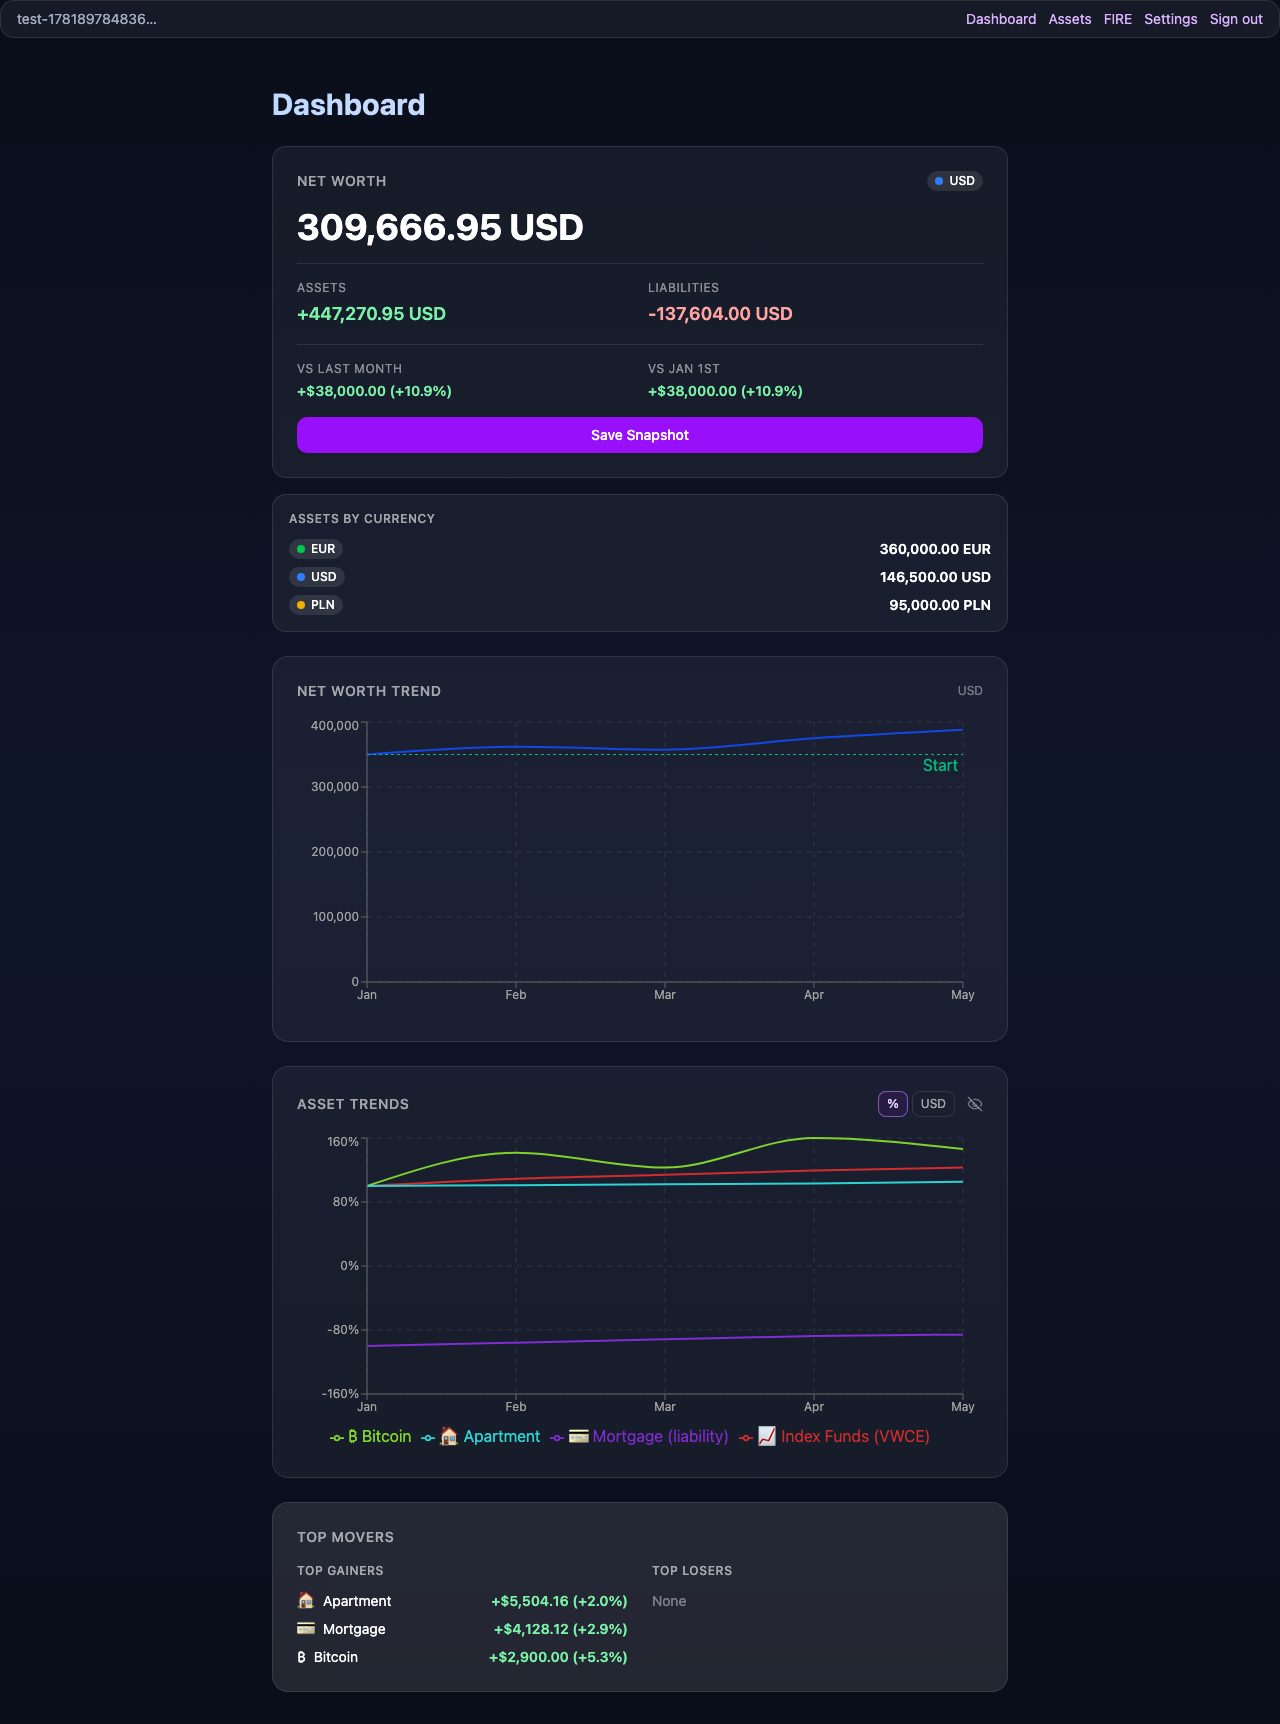
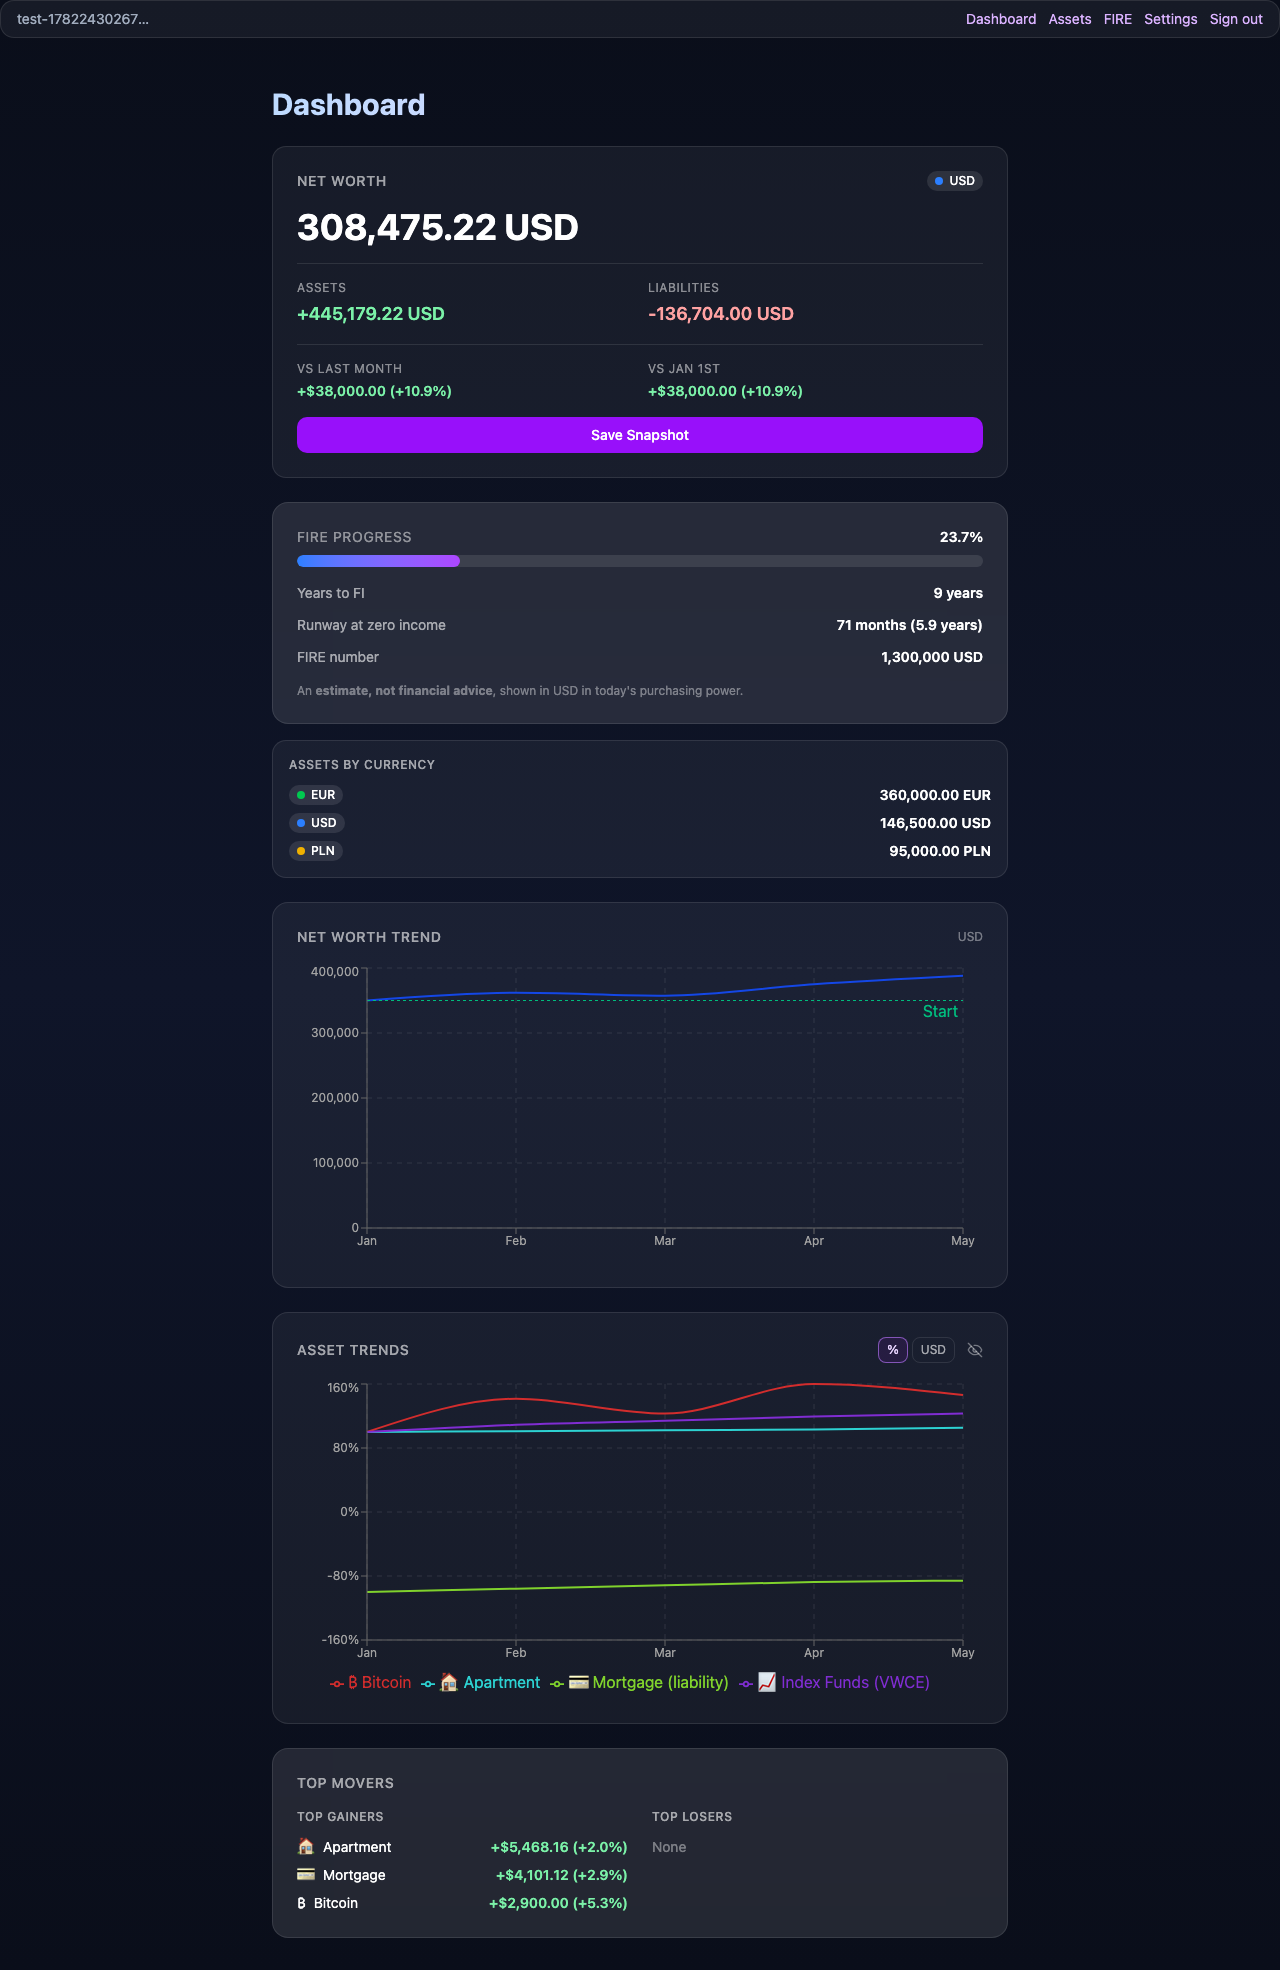
docs(readme): cover FIRE dashboard card + add settings screenshot
- README: new "FIRE progress card" feature bullet, updated Settings +
  Plan-ahead copy, dashboard caption, and a settings screenshot
- capture spec: add dark-theme settings.png capture
- regenerate dark-theme screenshots (dashboard now shows the FIRE card)

diff --git a/e2e/capture-screenshots.spec.ts b/e2e/capture-screenshots.spec.ts
@@ -283,6 +283,11 @@ test("capture README screenshots", async ({ page, browser }) => {
   await settleChart(page, /projected portfolio/i);
   await page.screenshot({ path: join(SHOTS_DIR, "fire.png"), fullPage: true });
 
+  await page.goto("/dashboard/settings");
+  await page.getByRole("heading", { name: /settings/i }).waitFor({ state: "visible" });
+  await page.waitForLoadState("networkidle");
+  await page.screenshot({ path: join(SHOTS_DIR, "settings.png"), fullPage: true });
+
   // 4. A few light-theme shots (dashboard + FIRE) to showcase the light theme.
   await page.emulateMedia({ colorScheme: "light" });
 

diff --git a/README.md b/README.md
@@ -14,7 +14,7 @@ BitWorth is a privacy-first personal net worth tracker. You manually enter your 
   <img alt="PWA" src="https://img.shields.io/badge/PWA-installable-5A0FC8?logo=pwa&logoColor=white" />
 </p>
 
-![BitWorth dashboard — net worth, deltas, and trend chart](docs/screenshots/dashboard.png)
+![BitWorth dashboard — net worth, deltas, FIRE progress, and trend chart](docs/screenshots/dashboard.png)
 
 ---
 
@@ -26,7 +26,7 @@ Tracking net worth in a spreadsheet works until it doesn't: formulas drift, curr
 - **Multi-currency, automatically** — hold assets in PLN, USD, and EUR; BitWorth converts everything to your display currency using live rates (cached, with graceful fallback).
 - **One number, with context** — a single net worth figure plus month-over-month and year-to-date deltas.
 - **History you can see** — one-click snapshots feed an overall trend chart, top movers, and per-asset trend lines.
-- **Plan ahead** — a built-in FIRE calculator projects when you can retire.
+- **Plan ahead** — a built-in FIRE calculator projects when you can retire, and an optional dashboard card keeps your progress toward financial independence front and center.
 
 ![Landing page](docs/screenshots/landing.png)
 
@@ -40,7 +40,8 @@ Tracking net worth in a spreadsheet works until it doesn't: formulas drift, curr
 - **Asset trends** — opt any asset into a dedicated trend chart and watch each one move across your snapshot history. Toggle between indexed (%) and absolute scales; lines are color-distinct, gaps stay honest (no bridging), and liabilities read in their natural direction (debt paydown trends up).
 - **Live crypto prices** — adding or editing a crypto holding fetches the current market price from CoinGecko (cached, with manual-entry fallback). Top coins are mapped out of the box (BTC, ETH, SOL, and more).
 - **FIRE calculator** — enter your income, expenses, return, inflation, and safe withdrawal rate to compute your FIRE number, years to FI, estimated retirement age, plus Coast and Barista FIRE — with a year-by-year projection chart in today's money.
-- **Settings** — choose your display currency (PLN/USD/EUR) and theme (light/dark/system), persisted per user.
+- **FIRE progress card** — a settings-gated card on the dashboard (on by default) that turns your saved FIRE inputs into an at-a-glance view: a progress bar for percent of your FIRE number reached, months of runway at zero income, years to FI, and the FIRE number — all in your display currency. Before you've entered any FIRE data it shows a placeholder linking to the calculator.
+- **Settings** — choose your display currency (PLN/USD/EUR), theme (light/dark/system), and whether the FIRE progress card appears on your dashboard; everything is persisted per user.
 - **Auth** — email/password authentication via Supabase SSR, with protected dashboard routes.
 
 | Assets                                                                     | FIRE calculator                                                            |
@@ -48,6 +49,8 @@ Tracking net worth in a spreadsheet works until it doesn't: formulas drift, curr
 | [![Assets list](docs/screenshots/assets.png)](docs/screenshots/assets.png) | [![FIRE calculator](docs/screenshots/fire.png)](docs/screenshots/fire.png) |
 
 ![Asset Trends — per-asset trend lines over snapshot history, indexed mode](docs/screenshots/asset-trends.png)
+
+![Settings — display currency, theme, FIRE progress card toggle, and backup/restore](docs/screenshots/settings.png)
 
 > Screenshots show the default dark theme. BitWorth also ships a light theme (and a "system" option) — here's the dashboard and FIRE calculator in light:
 >
